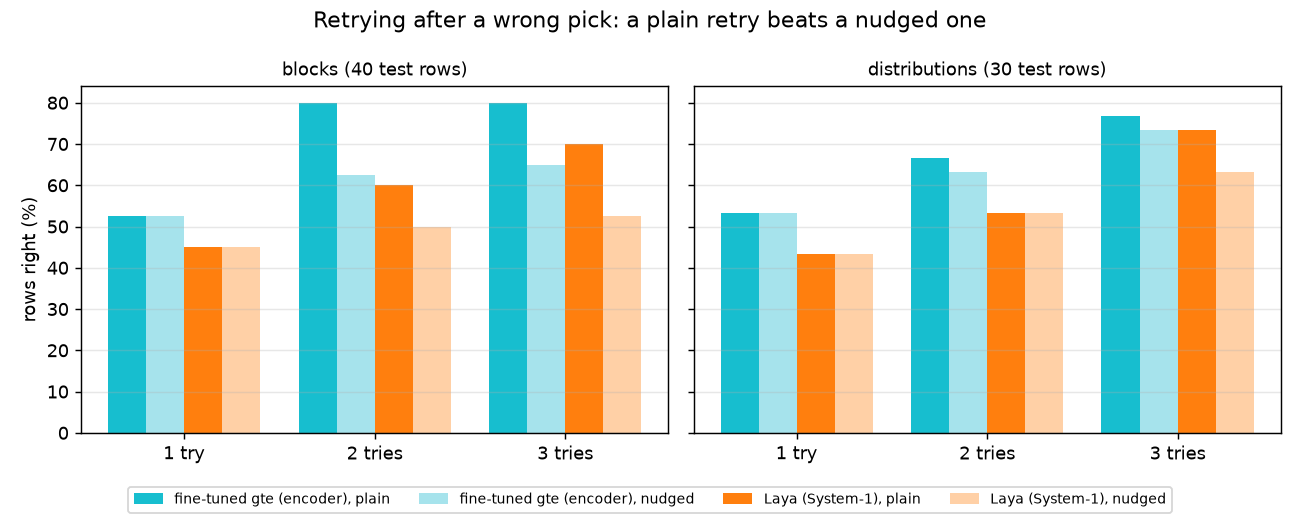
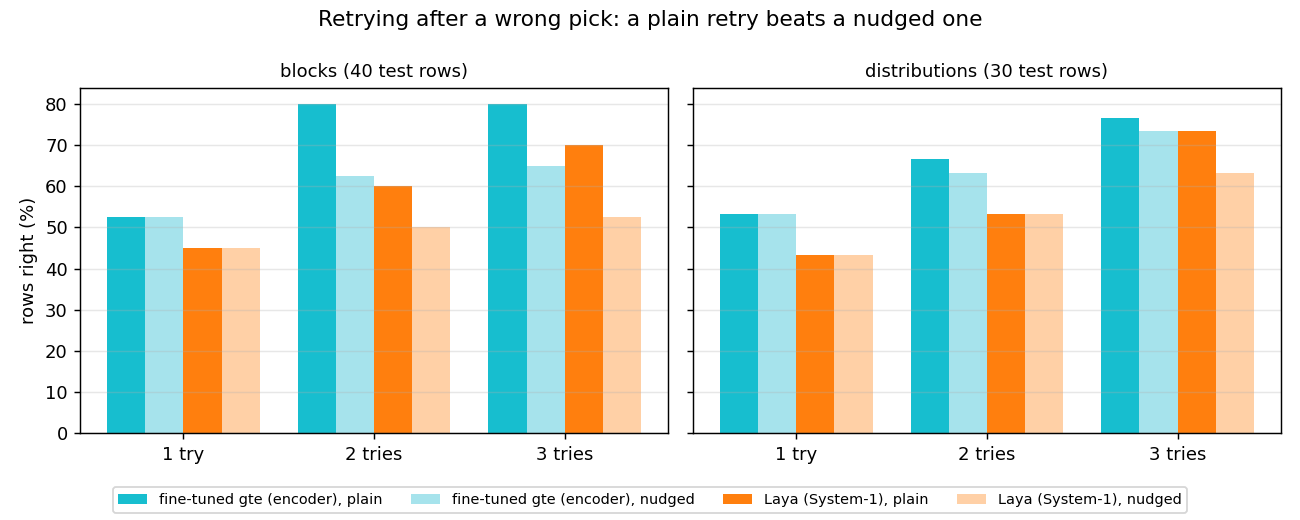
Study: a local picker trained by a teacher (distillation results, report section, students on the charts)
gte trained on Claude Haiku 5.5's labels: TEST2 all-90 top-1 80/100 (Haiku 82, untuned gte 58);
on Gemma 4 E4B's labels: 50/100. On HELD_OUT_2 the gain mostly vanishes (15/25 against 14).

diff --git a/bench/naga/plot.py b/bench/naga/plot.py
@@ -19,16 +19,19 @@ HERE = Path(__file__).resolve().parent
 R2 = HERE / "results2"
 OUT = HERE.parents[1] / "docs" / "screenshots"
 COLORS = {"harrier-bi": "#8c8c8c", "gte-rerank": "#1f77b4", "qwen3-rerank": "#2ca02c", "nli": "#9467bd", "gliner2": "#8c564b",
-          "laya": "#ff7f0e", "von": "#e377c2", "gemma4": "#d62728", "tuned": "#17becf", "haiku": "#000000"}
+          "laya": "#ff7f0e", "von": "#e377c2", "gemma4": "#d62728", "tuned": "#17becf", "haiku": "#000000",
+          "gte-gemma4": "#17becf", "gte-haiku": "#17becf"}
 LABELS = {"gte-rerank": "gte-reranker (zero-shot)", "qwen3-rerank": "Qwen3-Reranker-0.6B", "gemma4": "Gemma 4 E4B", "laya": "Laya",
           "tuned": "gte-reranker (fine-tuned)", "harrier-bi": "harrier (bi-encoder)", "nli": "ModernBERT-NLI", "gliner2": "GLiNER2.5",
-          "von": "Von 1.3", "haiku": "Claude Haiku 5.5 (API)"}
+          "von": "Von 1.3", "haiku": "Claude Haiku 5.5 (API)",
+          "gte-gemma4": "gte <- Gemma labels", "gte-haiku": "gte <- Haiku labels"}
 
 
 # What kind of model each engine is, drawn as the point's shape: System-1 decision models (built to
 # answer a multiple-choice question in one pass), encoders (rerankers, NLI, embeddings) and LLMs.
 KINDS = {"System-1 decision model": ("o", ("laya", "von", "gliner2")),
-         "encoder (reranker, NLI, embedding)": ("s", ("gte-rerank", "tuned", "qwen3-rerank", "nli", "harrier-bi")),
+         "encoder (reranker, NLI, embedding)": ("s", ("gte-rerank", "tuned", "qwen3-rerank", "nli", "harrier-bi",
+                                                            "gte-gemma4", "gte-haiku")),
          "LLM": ("^", ("gemma4", "haiku"))}
 MARKER = {e: m for m, es in KINDS.values() for e in es}
 KIND = {e: k for k, (_, es) in KINDS.items() for e in es}
@@ -49,13 +52,22 @@ def frontier(pts):
 
 # Label offsets (points) where two engines sit almost on top of each other.
 # Shared with the interactive chart through engines.json (dx, dy in points/pixels, y up).
-OFFSET = {"tools": {"laya": (10, -3), "qwen3-rerank": (8, -14)},
+OFFSET = {"tools": {"laya": (10, -3), "qwen3-rerank": (8, -14), "gte-rerank": (-40, 9), "gte-haiku": (8, -12), "gte-gemma4": (8, -14)},
           "building": {"gliner2": (8, -14), "laya": (10, -3)}}
 
 
+# The distilled students (distill/train.py) have tool-choice results only, in distill/results/; their
+# HELD_OUT_2 rows are round 2's 25 TEST questions, so they join the tool-choice panel on the same rows.
+STUDENTS = ("gte-gemma4", "gte-haiku")
+
+
 def load(name):
-    p = R2 / f"{name}.jsonl"
-    return [json.loads(x) for x in p.read_text(encoding="utf-8").splitlines() if x.strip()] if p.exists() else None
+    student = name.split(".")[0] in STUDENTS
+    p = (HERE / "distill" / "results" if student else R2) / f"{name}.jsonl"
+    rows = [json.loads(x) for x in p.read_text(encoding="utf-8").splitlines() if x.strip()] if p.exists() else None
+    if rows and student:
+        rows = [{**r, "split": "TEST"} for r in rows if r["split"] == "HELD_OUT_2"]
+    return rows
 
 
 def top1(rows, split=None):

diff --git a/bench/naga/RESULTS.md b/bench/naga/RESULTS.md
@@ -221,3 +221,76 @@ data in derived2/, results in results2/, tables by `report2.py`, phase 4 by `pha
   the nudge never beat a plain retry and often lost (tuned blocks 26 vs 32, Laya blocks 21 vs 28), so the rejected labels' summaries
   mislead the encoders. (5) Phase 4: see the table; a subset by context (4a) is flat on TEST and helps TRAIN a little, two-stage (4b)
   is worse than single-stage (family errors compound), merging near-duplicates (4c) adds at most +1 (twin_read).
+
+## Distillation (2026-10-20/21)
+
+Can a fast local picker learn tool choice from a stronger model? The fine-tune on 54 TRAIN questions did not hold
+(above), so this time gte-reranker-modernbert-base was trained on about 1,000 requests labelled by a teacher, one
+student per teacher: Gemma 4 E4B (local, Apache-2.0) and Claude Haiku 5.5 (Anthropic API). Matteo chose to train on
+Haiku's labels; each table row names the teacher whose labels it learned from. Scripts and data: `distill/`
+(`prep.py`, `label.py`, `train.py`, `report.py`; notes and doubts in `distill/NOTES.md`). Run with `BENCH_ROUND=distill`.
+
+- TEST2 (new, blind, frozen first): 100 requests written by a fresh Claude Sonnet 5.5 subagent that saw only the 90
+  tool names, every tool gold at least once; committed before any teacher or student saw it. HELD_OUT_2 = round 2's
+  25 TEST questions. find_tool's top 10 holds the gold for 80/100 TEST2 and 19/25 HELD_OUT_2 rows (top10 ceiling).
+- TRAIN2: 1,080 requests generated by three Claude Sonnet 5.5 subagents (12 per tool) from the full tool descriptions
+  and the 54 TRAIN questions; 6 near-duplicates and 7 near-copies of TEST2/HELD_OUT_2 rows dropped (word-set Jaccard
+  >= 0.6): 1,067 kept, 961 to fit, 106 held out (seed 0).
+- Labels: each teacher's top 3 for every TRAIN2 request, with the bench's prompt (common.question, the 90 tool
+  documents). Haiku saw all 90; Gemma saw the harrier top-20 shortlist (its letter limit), as in round 2.
+- Students: tune.py's recipe unchanged (listwise loss, hard negatives from find_tool's top 10 and ranks 11-90,
+  2 epochs, lr 2e-5, seed 0, one run each); positive = the teacher's top-1, its 2nd and 3rd picks left out of the
+  negatives (the loss takes one positive). No tuning against TEST2.
+
+| engine | mode | TEST2 top-1 | TEST2 top-3 | HELD_OUT_2 top-1 | HELD_OUT_2 top-3 | median ms | errors |
+|---|---|---|---|---|---|---|---|
+| find_tool alone | all 90 | 36/100 | 51/100 | 8/25 | 14/25 | 1 |  |
+| gte, untuned | all 90 | 58/100 | 80/100 | 14/25 | 19/25 | 1191 |  |
+| gte <- Gemma labels | all 90 | 50/100 | 86/100 | 10/25 | 17/25 | 1191 |  |
+| gte <- Haiku labels | all 90 | 80/100 | 92/100 | 15/25 | 18/25 | 1189 |  |
+| Gemma 4 E4B | all 90 | 69/100 | 82/100 | 19/25 | 19/25 | 3223 | 1 |
+| Claude Haiku 5.5 (API) | all 90 | 82/100 | 95/100 | 22/25 | 23/25 | 1002 |  |
+| find_tool alone | top10 | 36/100 | 51/100 | 8/25 | 14/25 | 1 |  |
+| gte, untuned | top10 | 53/100 | 75/100 | 14/25 | 17/25 | 109 |  |
+| gte <- Gemma labels | top10 | 63/100 | 79/100 | 13/25 | 17/25 | 109 |  |
+| gte <- Haiku labels | top10 | 70/100 | 78/100 | 14/25 | 18/25 | 110 |  |
+| Gemma 4 E4B | top10 | 67/100 | 77/100 | 19/25 | 19/25 | 2390 | 3 |
+| Claude Haiku 5.5 (API) | top10 | 76/100 | 80/100 | 19/25 | 19/25 | 950 |  |
+
+Plain retry, students (right within 1 / 2 / 3 tries; mean ms per request, retries included):
+
+| student | mode | TEST2 1 / 2 / 3 | HELD_OUT_2 1 / 2 / 3 | mean ms (TEST2) |
+|---|---|---|---|---|
+| gte-gemma4 | all 90 | 50 / 78 / 86 of 100 | 10 / 15 / 17 of 25 | 2042 |
+| gte-haiku | all 90 | 80 / 89 / 92 of 100 | 15 / 15 / 18 of 25 | 1549 |
+| gte-gemma4 | top10 | 63 / 77 / 79 of 100 | 13 / 16 / 17 of 25 | 240 |
+| gte-haiku | top10 | 70 / 77 / 78 of 100 | 14 / 17 / 18 of 25 | 227 |
+
+| teacher | labelled | top-1 = generated gold | generated gold in top 3 | labelling time | API tokens in / out |
+|---|---|---|---|---|---|
+| gemma4 | 1067/1067 | 838 | 912 | 57 min | - |
+| haiku | 1067/1067 | 943 | 1012 | 20 min | 13,281,633 / 55,594 |
+
+The two teachers give the same top-1 on 824 of 1067 requests.
+- student gte <- gemma4: trained on 961 requests in 26.6 min (GPU); held-out 106: agrees with its teacher on 58, matches the generated gold on 52 (the teacher itself: 81).
+- student gte <- haiku: trained on 961 requests in 26.6 min (GPU); held-out 106: agrees with its teacher on 80, matches the generated gold on 84 (the teacher itself: 91).
+
+Plain retry: a cross-encoder scores each option on its own, so removing a rejected pick leaves the others in the
+same order: try k is right exactly when the gold is in the first k. The time is the measured decision time times
+the tries used (an estimate). Gemma had 3 format errors on top10 and 1 on all 90 (it answered a word, not a
+letter), counted as misses; its labelling run had none. Haiku's tokens are mostly cache reads (the 90 tool documents,
+about 12,300 tokens, are the cached system block); the benchmark itself used 1,825,017 in / 13,090 out more.
+GPU time: Gemma labelling 57 min, each student 26.6 min of training, every bench run under 10 min.
+
+Read:
+- Haiku's labels made a student that nearly matches its teacher on TEST2: all 90 tools, top-1 80/100 against
+  Haiku's 82 and untuned gte's 58, top-3 92 against 95, at 1.2 s per decision on the laptop GPU (Haiku about 1 s
+  over the network). Over find_tool's top 10 it gets 70/100 at 110 ms (Haiku 76, ceiling 80).
+- Gemma's labels did not: its student is below untuned gte over all 90 (50/100 top-1) and in between on top10
+  (63/100). Gemma's top-1 matched the generated gold on 838 of 1,067 TRAIN2 requests, Haiku's on 943; on the 106
+  held-out requests the Gemma student agreed with its teacher on 58, the Haiku student with its teacher on 80.
+- On HELD_OUT_2 (25 questions written before this study, by a different hand) the gain mostly vanishes: Haiku
+  student 15/25 all 90 and 14/25 top10, untuned gte 14 and 14, Haiku 22 and 19. TRAIN2 and TEST2 were both written
+  by Claude Sonnet 5.5, so part of the TEST2 gain is likely the shared style of requests, not tool knowledge.
+- Cost of the Haiku student: about 13.3 M input tokens (mostly cached) and 56 k output tokens for 1,067 labels,
+  20 min of API time, then 27 min of GPU training.

diff --git a/docs/studies/naga-decisions.md b/docs/studies/naga-decisions.md
@@ -119,6 +119,25 @@ Offering the model fewer choices did not pay on tool choice. A subset picked by 
 
 Fine-tuning the smallest tunable cross-encoder helped a little in cross-validation and did not hold on TEST. The model (gte-reranker, 150M) was trained with a listwise loss on T TRAIN, with `find_tool`'s top 10 as hard negatives, 211 synthetic queries made from the tool descriptions and 20 block-docstring pairs, and never on a TEST row. Grouped 2-fold cross-validation on TRAIN went from 42 to 45 of 54 (top 10) and from 39 to 41 (all 90). On TEST, round 1's tuned model went from 14 to 15 of 25 on tool choice, while round 2's retuned model scored 11 of 25 and did not help model building either. Zero-shot is the safer default, since 25 test questions do not justify shipping a fine-tune.
 
+## A local picker trained by a teacher
+
+Training the fast reranker on a strong teacher's labels brought it close to that teacher on a new test set, and only the stronger teacher did it. The student is the same gte-reranker (150M), trained with the recipe above on 1,067 generated requests over all 90 tools, each labelled by a teacher: Claude Haiku 5.5 through the API, or Gemma 4 E4B locally. Matteo chose to train on Haiku's labels, and each row below names the teacher behind it. The test set, TEST2, is 100 new requests written from the 90 tool names only and frozen before any teacher or student saw it; HELD_OUT_2 is the round-2 TEST set of 25. The value of the stronger model is plain in the numbers: Haiku's labels lifted the student, Gemma's did not.
+
+| engine | TEST2 all 90: top-1 / top-3 | TEST2 top10: top-1 / top-3 | HELD_OUT_2 all 90: top-1 / top-3 | median ms (all 90 / top10) |
+|---|---|---|---|---|
+| `find_tool` alone | 36 / 51 | 36 / 51 | 8 / 14 | 1 / 1 |
+| gte, untuned | 58 / 80 | 53 / 75 | 14 / 19 | 1,191 / 109 |
+| gte trained on Gemma's labels | 50 / 86 | 63 / 79 | 10 / 17 | 1,191 / 109 |
+| gte trained on Haiku's labels | 80 / 92 | 70 / 78 | 15 / 18 | 1,189 / 110 |
+| Gemma 4 E4B (teacher) | 69 / 82 | 67 / 77 | 19 / 19 | 3,223 / 2,390 |
+| Claude Haiku 5.5 (teacher, API) | 82 / 95 | 76 / 80 | 22 / 23 | 1,002 / 950 |
+
+The Haiku student gets within two questions of its teacher on TEST2 and runs locally. Over all 90 tools it is right first time on 80 of 100 requests against Haiku's 82 and the untuned gte's 58, and over `find_tool`'s top 10 it gets 70 at 110 ms, where the ceiling is 80. Gemma's student fell below the untuned gte over all 90 (50 of 100) because its labels were noisier: Gemma's first choice matched the generated request's tool on 838 of 1,067 requests, Haiku's on 943. On the 106 held-out training requests the Haiku student agreed with its teacher on 80 and the Gemma student with its teacher on 58. The stronger teacher made the better student, and by a wide margin.
+
+The gain does not carry over to the older 25 questions, which is the main caveat. On HELD_OUT_2 the Haiku student scores 15 of 25 over all 90 tools against the untuned gte's 14 and Haiku's 22. The training requests and TEST2 were both written by Claude Sonnet 5.5, so part of the TEST2 gain is probably the shared style of the requests rather than knowledge of the tools. A test set written by people would settle it.
+
+The cost was small. Haiku's 1,067 labels took about 13.3 million input tokens, most of them the cached block of 90 tool documents, and 56,000 output tokens, in 20 minutes of API time. Gemma's labels took 57 minutes on the laptop GPU, and each student trained in 27 minutes. Full tables, the plain-retry line and the notes are in [RESULTS.md](../../bench/naga/RESULTS.md#distillation-2026-1020-21).
+
 ## Which model should I pick
 
 Pick by the cost of a wrong answer and of waiting. All times are medians per decision on the laptop above.

diff --git a/bench/naga/README.md b/bench/naga/README.md
@@ -9,6 +9,7 @@ This folder holds the bench behind the [study report](../../docs/studies/naga-de
 - `eng_*.py`, `tune.py`, `retry.py`, `phase4.py`: one script per kind of engine, the fine-tune, the retry study and the fewer-choices study.
 - `results/`, `results2/`: one JSONL file per engine and task (ranking, confidence, latency per decision), for round 1 and round 2.
 - `report.py`, `report2.py`: rebuild the tables in `RESULTS.md`. `plot.py` draws `docs/screenshots/*.png`.
+- `distill/`: the distillation study (TEST2, TRAIN2, teacher labels, the two gte students' results; `BENCH_ROUND=distill`). The student models are not committed; `distill/train.py` rebuilds them.
 
 ## Rerun
 
